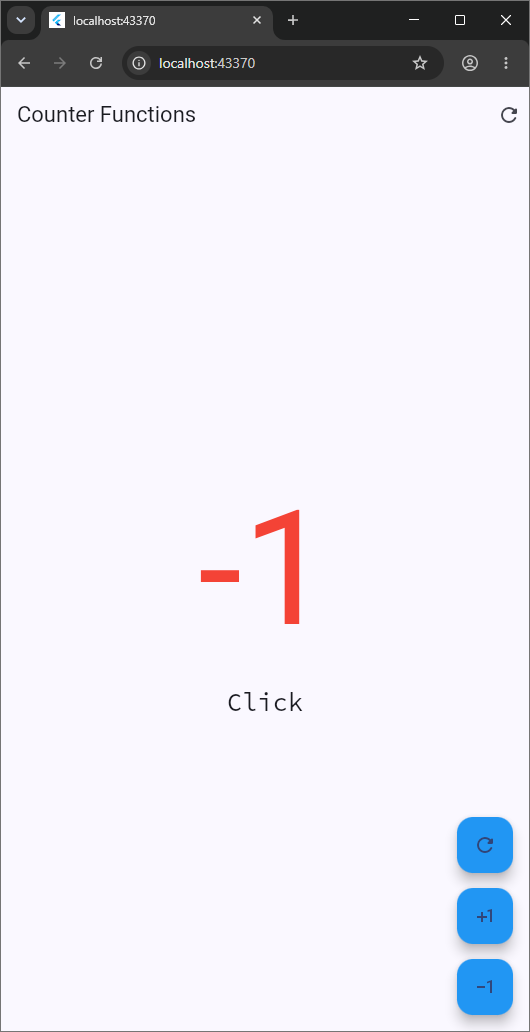
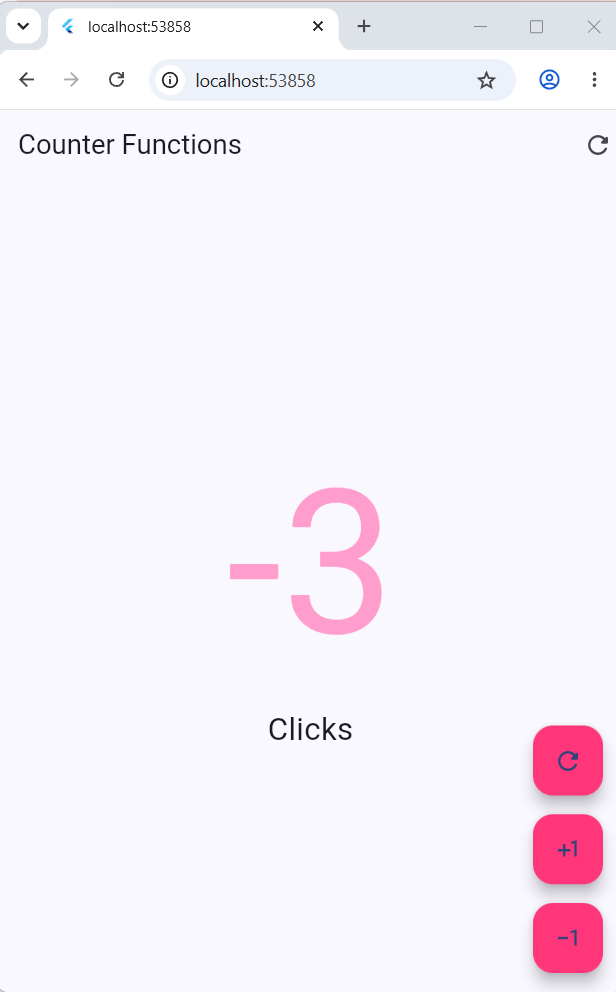
Actualización de README y correcciones de la Practica 02

diff --git a/Practica02/hello_world_app/lib/presentation/screens/counter/counter_functions_screen.dart b/Practica02/hello_world_app/lib/presentation/screens/counter/counter_functions_screen.dart
@@ -17,7 +17,7 @@ class _CounterFunctionsScreenState extends State<CounterFunctionsScreen> {
         title: const Text('Counter Functions'),
         actions: [
           IconButton(
-            icon: Icon(Icons.refresh_rounded),
+            icon: const Icon(Icons.refresh_rounded),
             onPressed: () {
               setState(() {
                 clickCounter = 0;
@@ -38,14 +38,14 @@ class _CounterFunctionsScreenState extends State<CounterFunctionsScreen> {
                 color: clickCounter < 0
                     ? Colors.red
                     : clickCounter == 0
-                        ? Colors.blue
-                        : Colors.green,
+                        ? const Color.fromARGB(255, 120, 6, 158)
+                        : const Color.fromARGB(255, 255, 37, 215),
               ),
             ),
             Text(
               'Click${clickCounter == 1 || clickCounter == -1 ? '' : 's'}',
-              style: TextStyle(fontSize: 25, fontFamily: 'MiFuente'),
-            )
+              style: const TextStyle(fontSize: 25, fontFamily: 'MiFuente'),
+            ),
           ],
         ),
       ),
@@ -73,6 +73,7 @@ class _CounterFunctionsScreenState extends State<CounterFunctionsScreen> {
           CustomButton(
             icon: Icons.exposure_minus_1_outlined,
             onPressed: () {
+              if (clickCounter == 0) return;
               setState(() {
                 clickCounter--;
               });
@@ -97,10 +98,9 @@ class CustomButton extends StatelessWidget {
   @override
   Widget build(BuildContext context) {
     return FloatingActionButton(
-      //shape: const StadiumBorder(),
       enableFeedback: true,
       elevation: 10,
-      backgroundColor: Colors.blue,
+      backgroundColor: const Color.fromARGB(255, 232, 74, 119),
       onPressed: onPressed,
       child: Icon(icon),
     );
